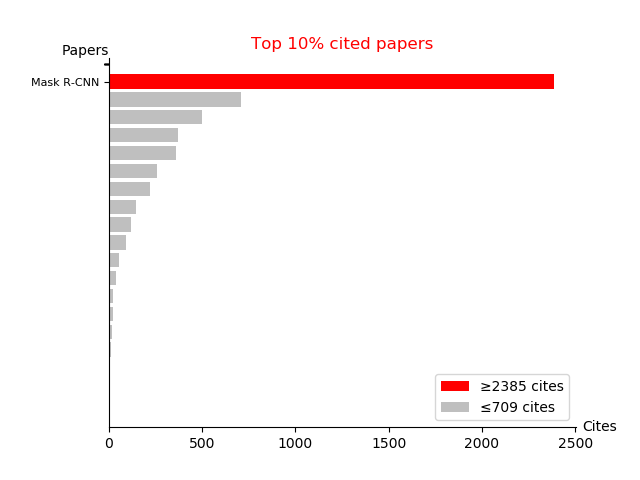
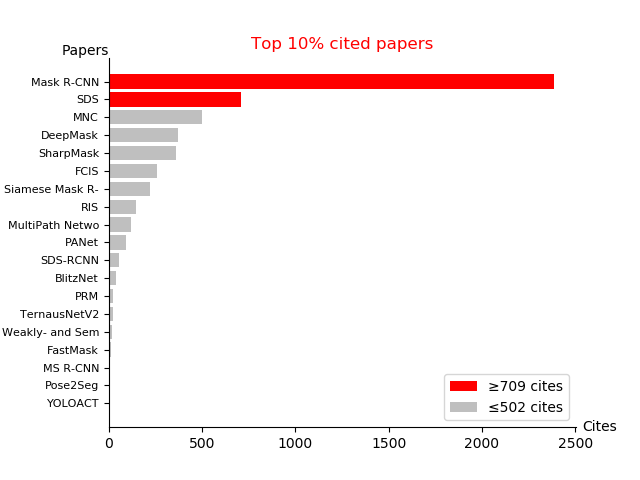
updated synthetic and real world dataset cite counts; adjusted chart creation to show all labels

Changed region(s): [[0.0, 0.1875, 0.375, 0.8438], [0.6875, 0.7812, 0.875, 0.875]]

diff --git a/main.py b/main.py
@@ -1,7 +1,7 @@
 """
 Alan Naoto Tabata
 Created: 18/03/2019
-Updated: 19/06/2019
+Updated: 27/04/2020
 """
 
 import matplotlib.pyplot as plt
@@ -18,7 +18,10 @@ class GraphAnalysis:
             with open(txt_file, 'r') as file:
                 lines = file.read().splitlines()
                 data = [lines[row_with_labels].split(', ')]
-                data = data + [[x.split(', ')[name_id], int(x.split(', ')[year_id]), int(x.split(', ')[cites_id])] for x in lines[ignore_first_two_lines:]]
+                for line_idx in range(2, len(lines)):
+                    line_data = lines[line_idx].split(", ")
+                    data.append([line_data[2], int(line_data[0]), int(line_data[1])])
+
                 if "object_detect_reduced" in txt_file:                    
                     self.boundingbox_content = data
                 elif "semantic" in txt_file:
@@ -28,23 +31,25 @@ class GraphAnalysis:
                 elif "real" in txt_file:
                     self.dataset_real_world = data
                 elif "depth_estimation_reduced" in txt_file:
-                	self.depth_estimation = data
+                    self.depth_estimation = data
+                elif "datasets_simulation" in txt_file:
+                    self.dataset_simulation = data
                 else:
                     raise Exception('Are you sure the txt files have the correct name? Check their syntax on the main repository')
 
-
     def create_charts(self, cites_upper_threshold):
-        most_cited_boundingbox = self._create_chart_template(self.boundingbox_content, cites_upper_threshold, 'BoundingBox')
+        most_cited_boundingbox = self._create_chart_template(self.boundingbox_content, cites_upper_threshold, 'Bounding_box')
         most_cited_semantic = self._create_chart_template(self.semantic_content, cites_upper_threshold, 'Semantic')
         most_cited_instance = self._create_chart_template(self.instance_content, cites_upper_threshold, 'Instance')
         most_cited_dataset_real_world = self._create_chart_template(self.dataset_real_world, cites_upper_threshold, 'Datasets_real')
+        most_cited_dataset_simulation = self._create_chart_template(self.dataset_simulation, cites_upper_threshold, 'Datasets_simulation')
         most_cited_depth_estimation = self._create_chart_template(self.depth_estimation, cites_upper_threshold, 'Depth_estimation')
         print('Most cited bounding box algorithms:', most_cited_boundingbox)
         print('Most cited semantic algorithms:', most_cited_semantic)
         print('Most cited instance algorithms:', most_cited_instance)
         print('Most cited depth estimation:', most_cited_depth_estimation)
-        print('Most cited datasets real world:', most_cited_dataset_real_world)        
-
+        print('Most cited datasets real world:', most_cited_dataset_real_world)
+        print('Most cited datasets simulation:', most_cited_dataset_simulation)
 
     def _create_chart_template(self, content_list, cites_upper_threshold, figure_name):
         # Order list by quantity of citations
@@ -54,26 +59,24 @@ class GraphAnalysis:
         quantity_of_algorithms = len(ordered_list)
         lower_percentile_index = int(quantity_of_algorithms*(1-cites_upper_threshold))        
         most_cited_algorithms = []
+
         # Begin construction of image
         fig, ax = plt.subplots()
         for index, x in enumerate(ordered_list):
-            algorithm = x[0]
+            algorithm = x[0][:15]  # restricting str length
             citations = x[2]            
             if index < lower_percentile_index:
-                gray = ax.barh(y=algorithm, width=citations, color='0.75')                
-            elif index == lower_percentile_index:                
-                last_gray_bar_cites = citations                
                 gray = ax.barh(y=algorithm, width=citations, color='0.75')
-            elif index > lower_percentile_index:
+            elif index >= lower_percentile_index:
                 red = ax.barh(y=algorithm, width=citations, color='r')
                 most_cited_algorithms.append([algorithm, x[1], citations])
 
-        # Puts x ticks only for red bars
-        red_bar_x_ticks = [x[0] if counter > lower_percentile_index else " " for counter, x in enumerate(ordered_list)]
-        plt.yticks(red_bar_x_ticks)
+        # Puts x ticks only for red bars for depth (too extense?)
+        # red_bar_x_ticks = [x[0][:15] for counter, x in enumerate(ordered_list) if counter >= lower_percentile_index]
+        # plt.yticks(red_bar_x_ticks)
         ax.tick_params(axis='y', labelsize=8)
         # Hides y labels
-        # ax.get_yaxis().set_ticks([])
+        # ax.get_yaxis().set_ticks([]])
 
         # Gets rid of the border around the chart
         ax.spines['top'].set_visible(False)
@@ -88,9 +91,8 @@ class GraphAnalysis:
         # plt.title(content_list[0][2])
         plt.title('Top 10% cited papers', color='red')
         plt.legend((red, gray),
-                   ('≥{} cites'.format(most_cited_algorithms[0][2]), '≤{} cites'.format(last_gray_bar_cites)),
+                   ('≥{} cites'.format(most_cited_algorithms[0][2]), '≤{} cites'.format(ordered_list[lower_percentile_index-1][2])),
                    loc=4)
-
         # Leaves a little more space to the left so that the label name can appear entirely
         plt.gcf().subplots_adjust(left=0.17)
 
@@ -103,7 +105,7 @@ if __name__ == "__main__":
     # User input
     # Files with articles with citations
     input_files = ['articles_object_detect_reduced.txt', 'articles_semantic_segmentation.txt', 'articles_instance_segmentation.txt'
-    , 'articles_datasets_real_world.txt', 'articles_depth_estimation_reduced.txt']
+    , 'articles_datasets_real_world.txt', 'articles_depth_estimation_reduced.txt', "articles_datasets_simulation.txt"]
     cites_upper_threshold = 0.10  # In percentage, from 0.00 to 1.00, the top x% most cited articles
 
     # Begin processing of data and image plotting
